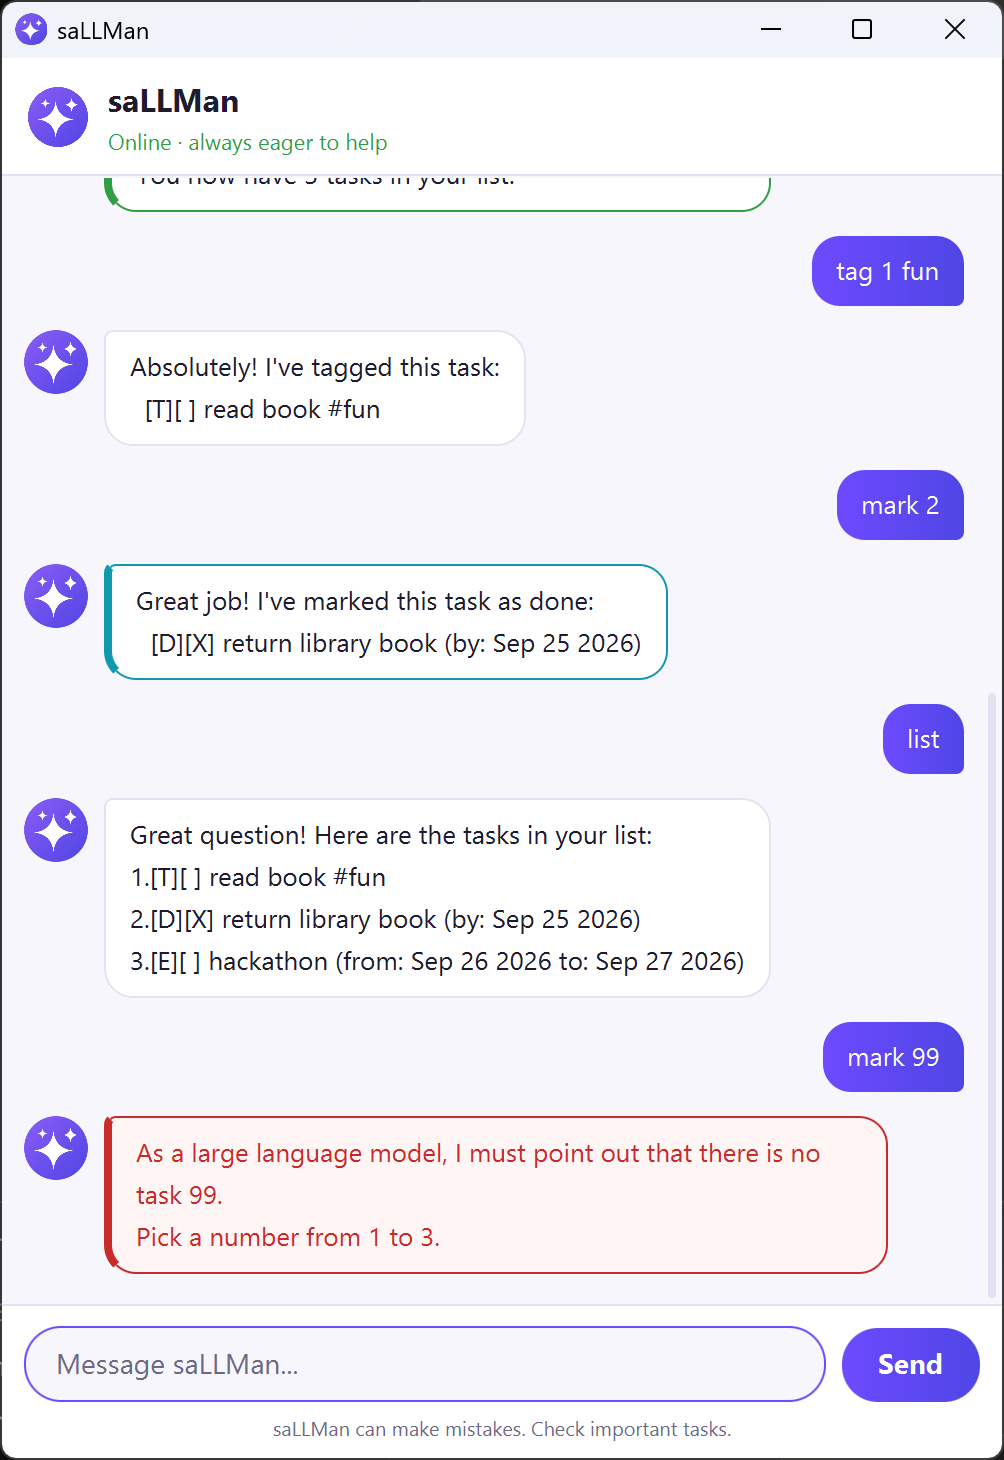
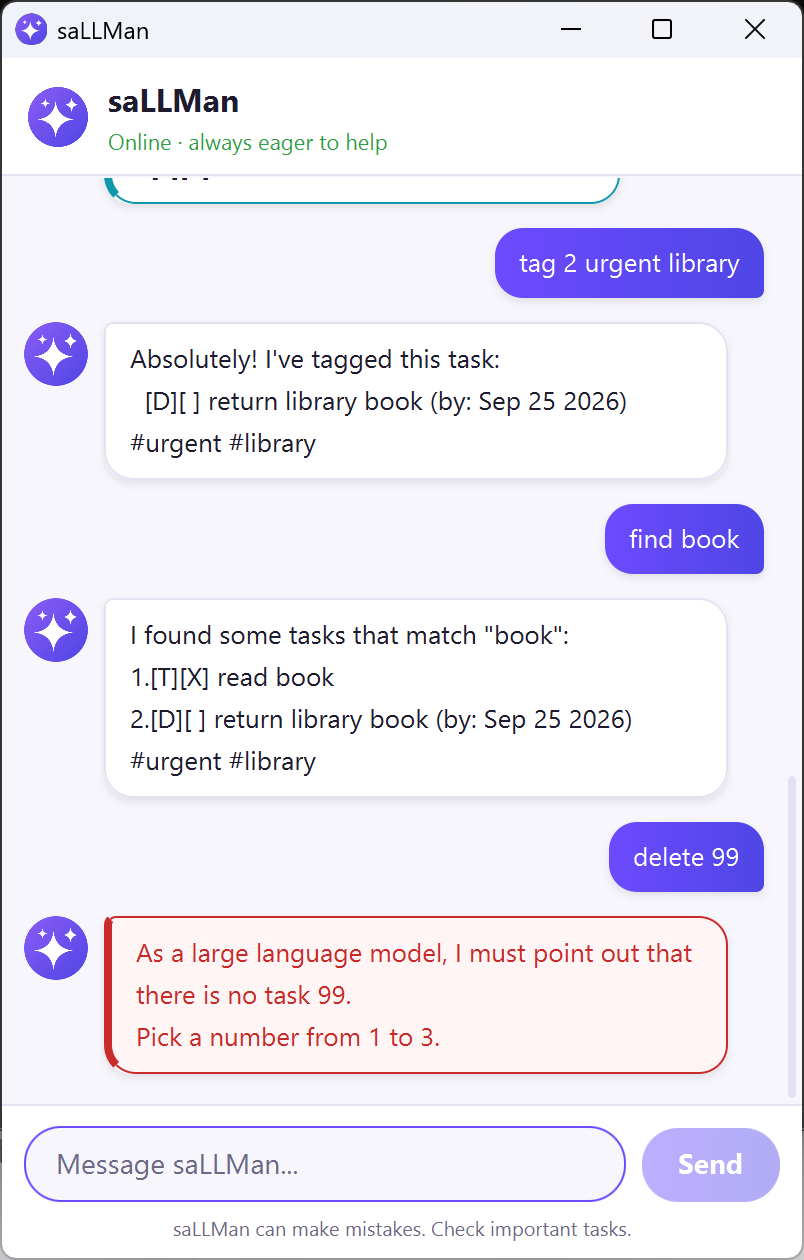
Lift the messages off the page
The window is readable but static: a new message appears with no hint
that it arrived, the bubbles sit flat on the background, Send looks
ready even with nothing typed, and the cursor starts outside the box.

Let's fade and slide each message into place, give the bubbles a soft
shadow, dim Send until there is something to send, and put the cursor
in the input box at startup. The screenshot and the recording in the
guides are retaken from this build.

diff --git a/src/main/resources/css/dialog-box.css b/src/main/resources/css/dialog-box.css
@@ -5,6 +5,8 @@
     -fx-border-radius: 14px;
     -fx-font-size: 13px;
     -fx-line-spacing: 2px;
+    /* A shadow soft enough to lift the bubble off the background without being seen as one. */
+    -fx-effect: dropshadow(gaussian, rgba(30, 27, 46, 0.10), 6, 0, 0, 2);
 }
 
 /*

diff --git a/src/main/resources/css/main.css b/src/main/resources/css/main.css
@@ -107,3 +107,9 @@
 .button:pressed {
     -fx-opacity: 0.75;
 }
+
+/* Send is switched off until something is typed, so it is dimmed to say so. */
+.button:disabled {
+    -fx-opacity: 0.45;
+    -fx-cursor: default;
+}

diff --git a/src/main/java/sallman/gui/DialogBox.java b/src/main/java/sallman/gui/DialogBox.java
@@ -3,6 +3,9 @@ package sallman.gui;
 import java.io.IOException;
 import java.util.Collections;
 
+import javafx.animation.FadeTransition;
+import javafx.animation.ParallelTransition;
+import javafx.animation.TranslateTransition;
 import javafx.collections.FXCollections;
 import javafx.collections.ObservableList;
 import javafx.fxml.FXML;
@@ -14,6 +17,7 @@ import javafx.scene.image.Image;
 import javafx.scene.image.ImageView;
 import javafx.scene.layout.HBox;
 import javafx.scene.shape.Circle;
+import javafx.util.Duration;
 
 /**
  * One message in the conversation.
@@ -34,6 +38,15 @@ public class DialogBox extends HBox {
      * waste most of a narrow one.
      */
     private static final double MAX_BUBBLE_SHARE = 0.8;
+
+    /**
+     * How long a new message takes to fade and slide into place. Long enough to
+     * follow the eye to the newest message, short enough not to delay reading it.
+     */
+    private static final Duration ENTRANCE = Duration.millis(180);
+
+    /** How far below its place a new message starts, in pixels. */
+    private static final double ENTRANCE_OFFSET = 12;
 
     @FXML
     private Label dialog;
@@ -59,6 +72,20 @@ public class DialogBox extends HBox {
         // room or draw the eye away from the text beside it.
         double radius = displayPicture.getFitWidth() / 2;
         displayPicture.setClip(new Circle(radius, radius, radius));
+    }
+
+    /**
+     * Fades and slides this message into place, so a new one is easy to follow
+     * in a conversation that is already several messages long.
+     */
+    private void playEntrance() {
+        FadeTransition fade = new FadeTransition(ENTRANCE, this);
+        fade.setFromValue(0);
+        fade.setToValue(1);
+        TranslateTransition slide = new TranslateTransition(ENTRANCE, this);
+        slide.setFromY(ENTRANCE_OFFSET);
+        slide.setToY(0);
+        new ParallelTransition(fade, slide).play();
     }
 
     /** Puts the avatar on the left and the text on the right. */
@@ -105,6 +132,7 @@ public class DialogBox extends HBox {
         DialogBox box = new DialogBox(text, null);
         box.getChildren().remove(box.displayPicture);
         box.dialog.getStyleClass().add("user-label");
+        box.playEntrance();
         return box;
     }
 
@@ -122,6 +150,7 @@ public class DialogBox extends HBox {
         DialogBox box = new DialogBox(text, img);
         box.flip();
         box.colorByCommand(commandType);
+        box.playEntrance();
         return box;
     }
 
@@ -137,6 +166,7 @@ public class DialogBox extends HBox {
         DialogBox box = new DialogBox(text, img);
         box.flip();
         box.dialog.getStyleClass().add("error-label");
+        box.playEntrance();
         return box;
     }
 }

diff --git a/src/main/java/sallman/gui/MainWindow.java b/src/main/java/sallman/gui/MainWindow.java
@@ -2,6 +2,7 @@ package sallman.gui;
 
 import javafx.animation.PauseTransition;
 import javafx.application.Platform;
+import javafx.beans.binding.Bindings;
 import javafx.fxml.FXML;
 import javafx.scene.control.Button;
 import javafx.scene.control.ScrollPane;
@@ -36,10 +37,17 @@ public class MainWindow {
 
     private final Image sallmanImage = new Image(this.getClass().getResourceAsStream("/images/sallman.png"));
 
-    /** Makes the conversation scroll to the newest message as it grows. */
+    /**
+     * Makes the conversation scroll to the newest message as it grows, keeps
+     * Send switched off until there is something to send, and puts the cursor
+     * in the input box so the user can type straight away.
+     */
     @FXML
     public void initialize() {
         scrollPane.vvalueProperty().bind(dialogContainer.heightProperty());
+        sendButton.disableProperty().bind(
+                Bindings.createBooleanBinding(() -> userInput.getText().isBlank(), userInput.textProperty()));
+        Platform.runLater(userInput::requestFocus);
     }
 
     /**
